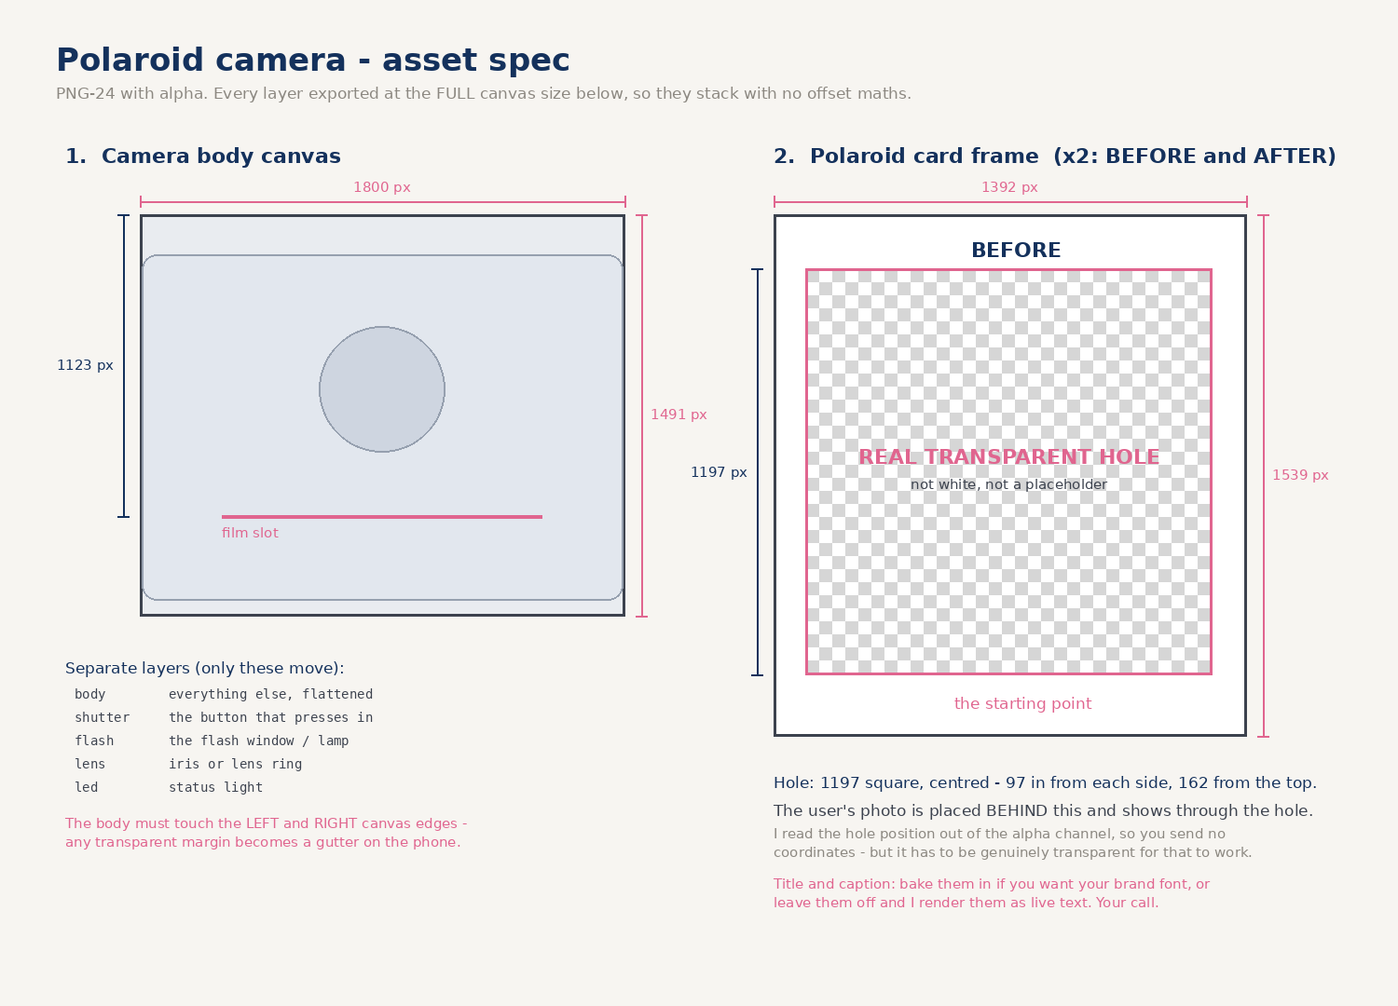
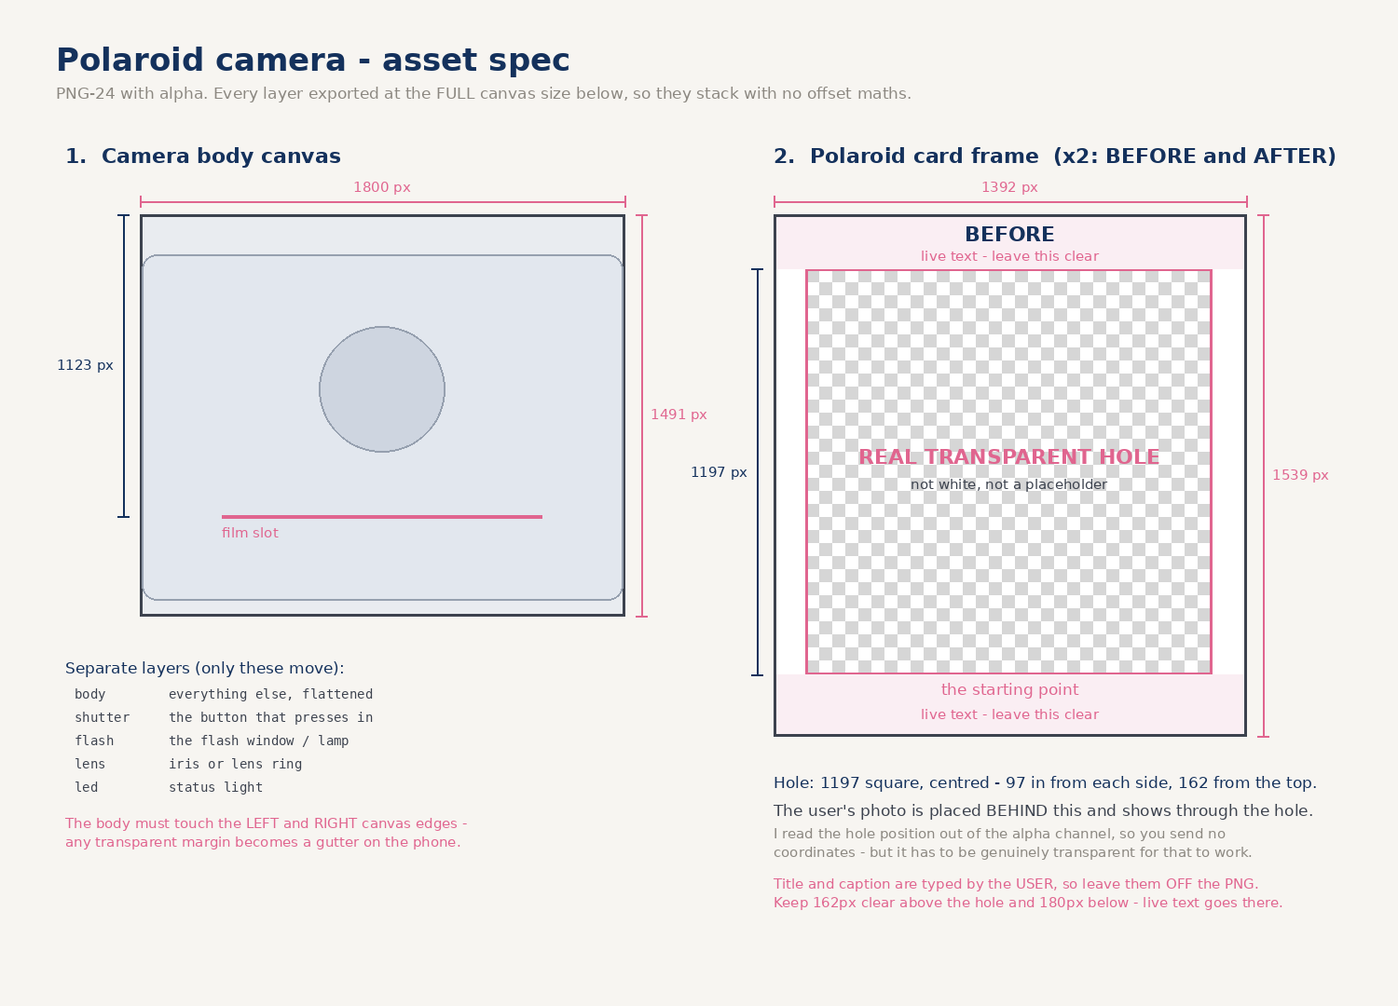
Live user text on the cards, wrapping invoice line items
Client confirmed the card title/caption are typed by the user and that a long
item name should wrap rather than truncate.

- receipt: long labels wrap onto a second line, price stays baseline-aligned
  to the first line and never wraps; min-width:0 so the flex item can break,
  overflow-wrap:anywhere so one long unbroken word still cannot overflow
- card: title and caption pinned to one line with an ellipsis. Every rest
  position is a percentage OF THE CARD, so a wrapping caption would grow the
  card, move the settled print and invalidate the exported frame proportions
- card: explicit line boxes in cqw instead of line-height:normal. With
  'normal' the height came from whichever font rendered the glyphs, so a
  caption containing a heart picked a fallback and the card grew a unit -
  measured 513 -> 514 purely by changing the words. Swept the values: 3.70cqw
  is the one that holds both the 513 card height and the 54 window top that
  the export spec is built on
- spec sheet + ASSETS.md: title/caption come OFF the frame PNG, with the
  162px and 180px bands called out as reserved for live text

Changed region(s): [[0.552, 0.8556, 0.92, 0.9167], [0.644, 0.2139, 0.7973, 0.275], [0.6747, 0.6722, 0.7667, 0.7333]]

diff --git a/react-live/assets/ReceiptPrinter-DfFWbAod.js b/react-live/assets/ReceiptPrinter-DfFWbAod.js
@@ -1,0 +1,1 @@
+import{r as l,g as w,j as e}from"./index-Dh-XI5wf.js";const O=100,P=0,C=3.6,k=36,q=-1.6,$={heading:"INVOICE",meta:["No. 0000","Date --/--/----"],lines:[{label:"Item one",value:"00.00"},{label:"Item two",value:"00.00"},{label:"Item three with a much longer name",value:"00.00"},{label:"Item four",value:"00.00"}],subtotal:{label:"Subtotal",value:"00.00"},total:{label:"TOTAL",value:"00.00"},footer:"thank you ♡"};function S(){let b=null;const i=()=>{if(typeof window>"u")return null;if(!b){const s=window.AudioContext||window.webkitAudioContext;if(!s)return null;b=new s}return b.state==="suspended"&&b.resume(),b},E=(s,d)=>{const r=Math.floor(s.sampleRate*d),n=s.createBuffer(1,r,s.sampleRate),o=n.getChannelData(0);for(let c=0;c<r;c++)o[c]=Math.random()*2-1;return n};return{unlock:i,feed(s,d){const r=i();if(!r)return;const n=r.currentTime,o=d/s,c=r.createOscillator();c.type="square",c.frequency.setValueAtTime(196,n),c.frequency.linearRampToValueAtTime(208,n+s);const m=r.createBiquadFilter();m.type="bandpass",m.frequency.value=1500,m.Q.value=.7;const h=r.createGain();h.gain.value=0;const p=r.createOscillator();p.type="square",p.frequency.value=o;const v=r.createGain();v.gain.value=.028,p.connect(v),v.connect(h.gain);const f=r.createGain();f.gain.setValueAtTime(1e-4,n),f.gain.linearRampToValueAtTime(1,n+.08),f.gain.setValueAtTime(1,n+s-.12),f.gain.linearRampToValueAtTime(1e-4,n+s),c.connect(m),m.connect(h),h.connect(f),f.connect(r.destination),c.start(n),c.stop(n+s+.02),p.start(n),p.stop(n+s+.02);const y=r.createBufferSource();y.buffer=E(r,s);const j=r.createBiquadFilter();j.type="highpass",j.frequency.value=4200;const u=r.createGain();u.gain.setValueAtTime(1e-4,n),u.gain.linearRampToValueAtTime(.035,n+.15),u.gain.setValueAtTime(.035,n+s-.15),u.gain.linearRampToValueAtTime(1e-4,n+s),y.connect(j),j.connect(u),u.connect(r.destination),y.start(n),y.stop(n+s)},beep(){const s=i();if(!s)return;const d=s.currentTime;[0,.14].forEach((r,n)=>{const o=s.createOscillator(),c=s.createGain();o.type="square",o.frequency.value=n?1180:880,c.gain.setValueAtTime(1e-4,d+r),c.gain.linearRampToValueAtTime(.07,d+r+.012),c.gain.exponentialRampToValueAtTime(1e-4,d+r+.1),o.connect(c),c.connect(s.destination),o.start(d+r),o.stop(d+r+.11)})}}}const M=l.forwardRef(function({receipt:i=$,paperSrc:E=null,printerSrc:s=null,sound:d=!0,autoPlay:r=!1,playOnView:n=!0,onComplete:o,className:c=""},m){var I,_;const h=l.useRef(null),p=l.useRef(null),v=l.useRef(null),f=l.useRef(null),y=l.useRef(null),j=l.useRef(null),u=l.useRef(null),T=l.useRef(null),N=l.useRef(d);l.useEffect(()=>{N.current=d},[d]);const G=l.useId().replace(/:/g,""),R=t=>`${t}-${G}`,A=t=>`url(#${R(t)})`,D=l.useCallback(()=>{var t;N.current&&((t=T.current)==null||t.feed(C,k))},[]),V=l.useCallback(()=>{var t;N.current&&((t=T.current)==null||t.beep())},[]);l.useLayoutEffect(()=>{T.current=S();const t=w.context(()=>{const a=p.current,x=v.current,B=()=>{w.set(a,{x:0,y:0,rotation:0}),w.set(x,{yPercent:O,rotation:0}),w.set(f.current,{y:0,scale:1,transformOrigin:"111px 214px"}),w.set(y.current,{opacity:.35}),w.set(j.current,{opacity:.12})};B();const F=w.timeline({paused:!0,defaults:{ease:"power2.out"},onComplete:()=>o==null?void 0:o()});F.to(f.current,{scale:.9,y:3,duration:.07,ease:"power3.in"},0).to(f.current,{scale:1,y:0,duration:.2,ease:"back.out(2.4)"},.07).to(y.current,{opacity:1,duration:.12},.05).to(j.current,{opacity:.5,duration:.12},.05),F.add("feed",.34).call(D,null,"feed").to(x,{yPercent:P,duration:C,ease:`steps(${k})`},"feed").to(x,{rotation:q,duration:C,ease:"power2.in"},"feed").to(a,{x:.9,y:-.6,duration:.055,repeat:Math.round(C/.055),yoyo:!0,ease:"none"},"feed"),F.add("done",`feed+=${C}`).set(a,{x:0,y:0},"done").call(V,null,"done").to(x,{rotation:q*.55,duration:.55,ease:"power2.out"},"done").to(y.current,{opacity:.35,duration:.4},"done+=0.3").to(j.current,{opacity:.12,duration:.4},"done+=0.3"),u.current=F,u.current.__reset=B},h);return()=>{t.revert(),u.current=null}},[o,D,V]);const g=l.useCallback(()=>{var a,x;const t=u.current;if(t){if((a=T.current)==null||a.unlock(),(x=t.__reset)==null||x.call(t),window.matchMedia("(prefers-reduced-motion: reduce)").matches){t.progress(1);return}t.restart()}},[]);return l.useImperativeHandle(m,()=>({play:g,reset:()=>{var t,a,x;(t=u.current)==null||t.pause(0),(x=(a=u.current)==null?void 0:a.__reset)==null||x.call(a)},get timeline(){return u.current}}),[g]),l.useEffect(()=>{r&&g()},[r,g]),l.useEffect(()=>{if(!n||r||!h.current)return;const t=h.current,a=new IntersectionObserver(x=>{x.forEach(B=>{B.isIntersecting&&(g(),a.disconnect())})},{threshold:.35});return a.observe(t),()=>a.disconnect()},[n,r,g]),e.jsxs("div",{className:`rp-stage ${c}`,ref:h,onClick:g,children:[e.jsx("div",{className:"rp-paper-stage",children:e.jsx("div",{className:"rp-paper",ref:v,children:E?e.jsx("img",{src:E,alt:"",draggable:"false"}):e.jsxs("div",{className:"rp-receipt",children:[e.jsx("div",{className:"rp-head",children:i.heading}),(I=i.meta)==null?void 0:I.map((t,a)=>e.jsx("div",{className:"rp-meta",children:t},a)),e.jsx("div",{className:"rp-rule"}),(_=i.lines)==null?void 0:_.map((t,a)=>e.jsxs("div",{className:"rp-row",children:[e.jsx("span",{children:t.label}),e.jsx("span",{children:t.value})]},a)),e.jsx("div",{className:"rp-rule"}),i.subtotal?e.jsxs("div",{className:"rp-row",children:[e.jsx("span",{children:i.subtotal.label}),e.jsx("span",{children:i.subtotal.value})]}):null,i.total?e.jsxs("div",{className:"rp-row rp-total",children:[e.jsx("span",{children:i.total.label}),e.jsx("span",{children:i.total.value})]}):null,e.jsx("div",{className:"rp-barcode","aria-hidden":"true",children:Array.from({length:34},(t,a)=>e.jsx("i",{style:{width:`${a*7%3+1}px`}},a))}),e.jsx("div",{className:"rp-foot",children:i.footer})]})})}),s?e.jsx("img",{className:"rp-body",src:s,alt:"",ref:p,draggable:"false"}):e.jsxs("svg",{className:"rp-body",ref:p,viewBox:"0 0 600 381",xmlns:"http://www.w3.org/2000/svg","aria-hidden":"true",children:[e.jsxs("defs",{children:[e.jsxs("linearGradient",{id:R("shell"),x1:"0",y1:"0",x2:"0",y2:"1",children:[e.jsx("stop",{offset:"0",stopColor:"#F6EFE4"}),e.jsx("stop",{offset:"1",stopColor:"#E4D8C7"})]}),e.jsxs("linearGradient",{id:R("deck"),x1:"0",y1:"0",x2:"0",y2:"1",children:[e.jsx("stop",{offset:"0",stopColor:"#EFE6D8"}),e.jsx("stop",{offset:"1",stopColor:"#DDD0BD"})]}),e.jsxs("linearGradient",{id:R("base"),x1:"0",y1:"0",x2:"0",y2:"1",children:[e.jsx("stop",{offset:"0",stopColor:"#8FB6DA"}),e.jsx("stop",{offset:"1",stopColor:"#6E97C2"})]}),e.jsxs("linearGradient",{id:R("slot"),x1:"0",y1:"0",x2:"0",y2:"1",children:[e.jsx("stop",{offset:"0",stopColor:"#33465d"}),e.jsx("stop",{offset:"1",stopColor:"#151f2c"})]}),e.jsx("filter",{id:R("soft"),x:"-30%",y:"-30%",width:"160%",height:"160%",children:e.jsx("feGaussianBlur",{stdDeviation:"6"})})]}),e.jsxs("g",{transform:"translate(-46.154, 0) scale(1.153846)",children:[e.jsx("ellipse",{cx:"300",cy:"316",rx:"222",ry:"12",fill:"#000",opacity:"0.13",filter:A("soft")}),e.jsx("rect",{x:"76",y:"238",width:"448",height:"72",rx:"26",fill:A("base")}),e.jsx("rect",{x:"76",y:"238",width:"448",height:"12",rx:"6",fill:"#A8C8E4",opacity:"0.5"}),e.jsx("rect",{x:"52",y:"96",width:"496",height:"166",rx:"28",fill:A("shell")}),e.jsx("rect",{x:"40",y:"52",width:"520",height:"60",rx:"24",fill:A("deck")}),e.jsx("rect",{x:"58",y:"60",width:"484",height:"12",rx:"6",fill:"#FFFBF4",opacity:"0.6"}),e.jsx("rect",{x:"150",y:"56",width:"300",height:"20",rx:"7",fill:A("slot")}),e.jsx("rect",{x:"150",y:"70",width:"300",height:"6",rx:"3",fill:"#0c1219",opacity:"0.55"}),e.jsx("rect",{x:"146",y:"76",width:"308",height:"9",rx:"4.5",fill:"#CBBCA6"}),e.jsx("rect",{x:"122",y:"56",width:"26",height:"22",rx:"7",fill:"#C3B39C"}),e.jsx("rect",{x:"452",y:"56",width:"26",height:"22",rx:"7",fill:"#C3B39C"}),e.jsxs("g",{ref:f,children:[e.jsx("circle",{cx:"111",cy:"218",r:"27",fill:"#C9B9A6"}),e.jsx("circle",{cx:"111",cy:"214",r:"25",fill:"#E9A9B2"}),e.jsx("circle",{cx:"111",cy:"209",r:"21",fill:"#F0B8C0"})]}),e.jsxs("g",{children:[e.jsx("rect",{x:"452",y:"196",width:"62",height:"24",rx:"12",fill:"#C8B49A"}),e.jsx("rect",{x:"455",y:"199",width:"56",height:"18",rx:"9",fill:"#2b2118"}),e.jsx("circle",{ref:j,cx:"483",cy:"208",r:"17",fill:"#5FBF7A",opacity:"0.12",filter:A("soft")}),e.jsx("circle",{ref:y,cx:"483",cy:"208",r:"7",fill:"#5FBF7A",opacity:"0.35"})]}),e.jsxs("g",{fill:"#D8C9B4",children:[e.jsx("rect",{x:"168",y:"150",width:"170",height:"8",rx:"4"}),e.jsx("rect",{x:"168",y:"172",width:"170",height:"8",rx:"4"}),e.jsx("rect",{x:"168",y:"194",width:"124",height:"8",rx:"4"})]})]})]})]})});export{M as R};

diff --git a/react-live/assets/PolaroidCamera-Hv4JjG4W.css b/react-live/assets/PolaroidCamera-Hv4JjG4W.css
@@ -1,0 +1,1 @@
+.pc-stage{--pc-slot-y: 25.82%;--pc-ink: #14315C;--pc-pink: #E0658F;position:relative;width:100%;aspect-ratio:600 / 1450;margin:0 auto;isolation:isolate;container-type:inline-size;overflow:hidden;touch-action:manipulation;cursor:pointer}.pc-stage *{box-sizing:border-box}.pc-camera{position:absolute;top:0;left:0;width:100%;height:auto;transform-origin:50% 78%;will-change:transform;z-index:1}.pc-photo-stage{position:absolute;left:0;right:0;top:var(--pc-slot-y);bottom:0;overflow:hidden;z-index:2;pointer-events:none}.pc-slot-lip{position:absolute;left:17.3%;right:17.3%;top:0;height:7px;background:linear-gradient(to bottom,#080e16b3,#080e1600);z-index:9}.pc-photo{position:absolute;width:77.3%;left:10.6%;top:0;will-change:transform;backface-visibility:hidden}.pc-photo-b{z-index:4}.pc-photo-a{z-index:3}.pc-photo-inner{background:#fbf8f2;border-radius:3px;padding:4% 7%;box-shadow:0 1px 2px #14192329,0 10px 22px #14192333,0 22px 40px #1419231f}.pc-photo-title,.pc-photo-caption{white-space:nowrap;overflow:hidden;text-overflow:ellipsis}.pc-photo-title{text-align:center;font-weight:800;letter-spacing:.11em;color:var(--pc-ink);font-size:3.4cqw;line-height:3.7cqw;margin-bottom:3%}.pc-photo-title:before,.pc-photo-title:after{content:"//";color:var(--pc-pink);margin:0 .5em;font-size:.8em;position:relative;top:-.33cqw}.pc-photo-img{position:relative;width:100%;aspect-ratio:1;border-radius:2px;overflow:hidden;background:#cfc3b4}.pc-photo-img img{display:block;width:100%;height:100%;object-fit:cover}.pc-img-before{background:linear-gradient(150deg,#dccfc0,#c9b7a4 45%,#d6c7b6)}.pc-img-after{background:linear-gradient(150deg,#d8c6ae,#8a5a32 40%,#4a2a18 75%,#c79a62)}.pc-img-before:after,.pc-img-after:after{content:"";position:absolute;left:50%;bottom:-14%;width:52%;aspect-ratio:1/1.25;transform:translate(-50%);border-radius:46% 46% 38% 38%/40% 40% 60% 60%;background:radial-gradient(120% 90% at 35% 20%,#ffffff4d,#00000029);mix-blend-mode:soft-light}.pc-dev-veil{position:absolute;top:0;right:0;bottom:0;left:0;background:#efe9df;z-index:2}.pc-photo-caption{text-align:center;color:var(--pc-pink);font-family:Snell Roundhand,Segoe Script,Brush Script MT,cursive;font-style:italic;font-size:4cqw;line-height:4.67cqw;margin-top:3.5%}.pc-flash-overlay{position:absolute;top:-40%;right:-40%;bottom:-40%;left:-40%;background:radial-gradient(circle at 21% 21%,#fffffffa,#ffffff8c 40%,#fff0 72%);opacity:0;pointer-events:none;z-index:6}

diff --git a/react-live/assets/ReceiptPrinter-BhrNLBUx.css b/react-live/assets/ReceiptPrinter-BhrNLBUx.css
@@ -1,0 +1,1 @@
+.rp-stage{--rp-body-top: 50.54%;--rp-slot-y: 59.46%;--rp-ink: #14315C;--rp-pink: #E0658F;--rp-paper: #FCFAF5;position:relative;width:100%;aspect-ratio:600 / 930;margin:0 auto;isolation:isolate;container-type:inline-size;overflow:hidden;touch-action:manipulation;cursor:pointer}.rp-stage *{box-sizing:border-box}.rp-body{position:absolute;top:var(--rp-body-top);left:0;width:100%;height:auto;will-change:transform;z-index:3}.rp-paper-stage{position:absolute;left:0;right:0;top:0;height:var(--rp-slot-y);overflow:hidden;z-index:2;pointer-events:none}.rp-paper{position:absolute;bottom:0;left:21.5%;width:56.9%;aspect-ratio:296 / 460;background:var(--rp-paper);transform-origin:50% 100%;will-change:transform;backface-visibility:hidden;filter:drop-shadow(0 -2px 3px rgba(20,25,35,.13)) drop-shadow(0 -10px 20px rgba(20,25,35,.14))}.rp-paper img{display:block;width:100%;height:100%;object-fit:cover}.rp-paper:before{content:"";position:absolute;top:0;right:0;bottom:0;left:0;background:linear-gradient(100deg,#0000000d,#0000 18%,#0000 82%,#0000000d);pointer-events:none;z-index:3}.rp-receipt{position:absolute;top:0;right:0;bottom:0;left:0;padding:8% 9%;display:flex;flex-direction:column;font-family:SFMono-Regular,ui-monospace,Menlo,Consolas,Courier New,monospace;color:#3d3a35;font-size:2.05cqw;line-height:1.8;letter-spacing:.02em}.rp-head{text-align:center;font-weight:800;letter-spacing:.22em;text-indent:.22em;font-size:3.1cqw;color:var(--rp-ink);margin-bottom:2%}.rp-meta{text-align:center;color:#8d877e;font-size:1.85cqw;line-height:1.6}.rp-rule{border-top:1px dashed #c9c2b6;margin:4.5% 0 3.5%}.rp-row{display:flex;justify-content:space-between;align-items:baseline;gap:6%;line-height:1.45;margin-bottom:1.4%}.rp-row span:first-child{min-width:0;overflow-wrap:anywhere}.rp-row span:last-child{flex:none;white-space:nowrap;font-variant-numeric:tabular-nums}.rp-total{font-weight:800;color:var(--rp-ink);font-size:2.5cqw;margin-top:2%}.rp-barcode{display:flex;align-items:flex-end;gap:2px;height:9%;margin:auto 0 4%}.rp-barcode i{display:block;height:100%;background:#3d3a35}.rp-foot{text-align:center;color:var(--rp-pink);font-family:Snell Roundhand,Segoe Script,Brush Script MT,cursive;font-style:italic;font-size:3cqw}

diff --git a/react-live/assets/main-B6gEG2wQ.js b/react-live/assets/main-B6gEG2wQ.js
@@ -1,0 +1,1 @@
+import{r,j as e,c as i,R as l}from"./index-Dh-XI5wf.js";import{P as o}from"./PolaroidCamera-DPSqkrea.js";import{R as d}from"./ReceiptPrinter-DfFWbAod.js";function h(){const c=r.useRef(null),t=r.useRef(null),[n,a]=r.useState(!0);return r.useEffect(()=>{window.__cam=c.current,window.__printer=t.current},[]),e.jsxs("main",{className:"page",children:[e.jsxs("section",{className:"hero",children:[e.jsxs("div",{className:"copy",children:[e.jsx("p",{className:"eyebrow",children:"React + GSAP"}),e.jsx("h1",{children:"Polaroid capture"}),e.jsx("p",{className:"lede",children:"One component, one import. Flash, shutter sound, recoil and both prints run off a single GSAP timeline."})]}),e.jsx("div",{className:"camera-slot",children:e.jsx(o,{ref:c,sound:n,playOnView:!0})}),e.jsxs("div",{className:"controls",children:[e.jsx("button",{className:"btn",onClick:()=>{var s;return(s=c.current)==null?void 0:s.play()},children:"Take the photo"}),e.jsxs("label",{className:"snd",children:[e.jsx("input",{type:"checkbox",checked:n,onChange:s=>a(s.target.checked)}),"sound"]})]})]}),e.jsxs("section",{className:"hero",children:[e.jsxs("div",{className:"copy",children:[e.jsx("p",{className:"eyebrow",children:"React + GSAP"}),e.jsx("h1",{children:"Invoice printer"}),e.jsx("p",{className:"lede",children:"Ejects upward, in discrete line steps rather than a smooth glide. The paper travels; the heading leads because it is the top of the job."})]}),e.jsx("div",{className:"camera-slot",children:e.jsx(d,{ref:t,sound:n,playOnView:!0})}),e.jsx("div",{className:"controls",children:e.jsx("button",{className:"btn",onClick:()=>{var s;return(s=t.current)==null?void 0:s.play()},children:"Print the invoice"})})]})]})}i(document.getElementById("root")).render(e.jsx(l.StrictMode,{children:e.jsx(h,{})}));

diff --git a/react-live/index.html b/react-live/index.html
@@ -4,12 +4,12 @@
     <meta charset="UTF-8" />
     <meta name="viewport" content="width=device-width, initial-scale=1, viewport-fit=cover" />
     <title>Polaroid Camera — React + GSAP</title>
-    <script type="module" crossorigin src="./assets/main-g8r7mvbE.js"></script>
+    <script type="module" crossorigin src="./assets/main-B6gEG2wQ.js"></script>
     <link rel="modulepreload" crossorigin href="./assets/index-Dh-XI5wf.js">
-    <link rel="modulepreload" crossorigin href="./assets/PolaroidCamera-xQFwZA3E.js">
-    <link rel="modulepreload" crossorigin href="./assets/ReceiptPrinter-CYSBdQ3a.js">
-    <link rel="stylesheet" crossorigin href="./assets/PolaroidCamera-Dsbu-LMQ.css">
-    <link rel="stylesheet" crossorigin href="./assets/ReceiptPrinter-CIUK7tMY.css">
+    <link rel="modulepreload" crossorigin href="./assets/PolaroidCamera-DPSqkrea.js">
+    <link rel="modulepreload" crossorigin href="./assets/ReceiptPrinter-DfFWbAod.js">
+    <link rel="stylesheet" crossorigin href="./assets/PolaroidCamera-Hv4JjG4W.css">
+    <link rel="stylesheet" crossorigin href="./assets/ReceiptPrinter-BhrNLBUx.css">
     <link rel="stylesheet" crossorigin href="./assets/main-BMUArjTb.css">
   </head>
   <body>

diff --git a/react-live/printer.html b/react-live/printer.html
@@ -4,10 +4,10 @@
     <meta charset="UTF-8" />
     <meta name="viewport" content="width=device-width, initial-scale=1, viewport-fit=cover" />
     <title>printer — full page</title>
-    <script type="module" crossorigin src="./assets/printer-UgOzVct7.js"></script>
+    <script type="module" crossorigin src="./assets/printer-B_nD6hh-.js"></script>
     <link rel="modulepreload" crossorigin href="./assets/index-Dh-XI5wf.js">
-    <link rel="modulepreload" crossorigin href="./assets/ReceiptPrinter-CYSBdQ3a.js">
-    <link rel="stylesheet" crossorigin href="./assets/ReceiptPrinter-CIUK7tMY.css">
+    <link rel="modulepreload" crossorigin href="./assets/ReceiptPrinter-DfFWbAod.js">
+    <link rel="stylesheet" crossorigin href="./assets/ReceiptPrinter-BhrNLBUx.css">
     <link rel="stylesheet" crossorigin href="./assets/fullpage-LI5TsJbq.css">
   </head>
   <body>

diff --git a/react-live/camera.html b/react-live/camera.html
@@ -4,10 +4,10 @@
     <meta charset="UTF-8" />
     <meta name="viewport" content="width=device-width, initial-scale=1, viewport-fit=cover" />
     <title>camera — full page</title>
-    <script type="module" crossorigin src="./assets/camera-DL4GEIU5.js"></script>
+    <script type="module" crossorigin src="./assets/camera-B-zKEUiB.js"></script>
     <link rel="modulepreload" crossorigin href="./assets/index-Dh-XI5wf.js">
-    <link rel="modulepreload" crossorigin href="./assets/PolaroidCamera-xQFwZA3E.js">
-    <link rel="stylesheet" crossorigin href="./assets/PolaroidCamera-Dsbu-LMQ.css">
+    <link rel="modulepreload" crossorigin href="./assets/PolaroidCamera-DPSqkrea.js">
+    <link rel="stylesheet" crossorigin href="./assets/PolaroidCamera-Hv4JjG4W.css">
     <link rel="stylesheet" crossorigin href="./assets/fullpage-LI5TsJbq.css">
   </head>
   <body>

diff --git a/react-live/assets/printer-B_nD6hh-.js b/react-live/assets/printer-B_nD6hh-.js
@@ -1,0 +1,1 @@
+import{c as n,j as e,R as r}from"./index-Dh-XI5wf.js";import{R as s}from"./ReceiptPrinter-DfFWbAod.js";/* empty css                 */function i(){const t=r.useRef(null);return r.useEffect(()=>{window.__printer=t.current},[]),e.jsxs("div",{className:"fp fp-print",children:[e.jsx("div",{className:"fp-inner",children:e.jsx(s,{ref:t,playOnView:!0,sound:!0})}),e.jsx("p",{className:"fp-hint",children:"tap to replay"})]})}n(document.getElementById("root")).render(e.jsx(r.StrictMode,{children:e.jsx(i,{})}));

diff --git a/react-live/assets/camera-B-zKEUiB.js b/react-live/assets/camera-B-zKEUiB.js
@@ -1,0 +1,1 @@
+import{c as s,j as e,R as r}from"./index-Dh-XI5wf.js";import{P as a}from"./PolaroidCamera-DPSqkrea.js";/* empty css                 */function n(){const t=r.useRef(null);return r.useEffect(()=>{window.__cam=t.current},[]),e.jsxs("div",{className:"fp fp-cam",children:[e.jsx("div",{className:"fp-inner",children:e.jsx(a,{ref:t,playOnView:!0,sound:!0})}),e.jsx("p",{className:"fp-hint",children:"tap to replay"})]})}s(document.getElementById("root")).render(e.jsx(r.StrictMode,{children:e.jsx(n,{})}));

diff --git a/ASSETS.md b/ASSETS.md
@@ -64,11 +64,21 @@ the photo will be hidden behind it.
 Square because the uploads are Instagram-style nail photos. A wide window
 centre-crops the fingertips off, which on a nails brand removes the subject.
 
-**Title and caption** ("BEFORE" / "the starting point"): bake them into the PNG
-if you want your exact brand font, or leave them off and I render them as live
-text. Live text is sharper and editable; baked is a guaranteed font match. Your
-call — I just need to know which, because a baked title in the PNG plus a
-rendered one on top would double up.
+**Title and caption are typed by the user, so leave them off the PNG entirely.**
+They are rendered as live text on top of the frame. That means the frame needs
+blank space for them: **162px clear above the hole and 180px clear below.** Put
+artwork in either band and the user's own words land on top of it.
+
+Both are pinned to a single line, and overlong input ends in an ellipsis rather
+than wrapping. That is deliberate: every resting position in the animation is a
+percentage *of the card*, so if a long caption could wrap to two lines the card
+would grow, the settled print would move, and this frame's proportions would no
+longer match. At the card's real size roughly **28 characters of title** and
+**44 of caption** fit before it truncates. If your form lets people type more
+than that, cap the field at those lengths and nobody ever sees an ellipsis.
+
+Send the font (or its name) if you want the live text in your brand face —
+otherwise it renders in the closest web-safe match.
 
 ---
 
@@ -92,10 +102,16 @@ Leave it out and I draw the stock.
 
 **No invoice artwork is needed.** The receipt content comes from your form
 fields and is rendered as live text, so it stays sharp at any size and changes
-with the form. I do need the actual field list to match the layout — mine is
-currently a guess (heading, number, date, line items, subtotal, total, footer) —
-and a decision on whether a long item name should truncate with an ellipsis
-(what it does now) or wrap onto a second line.
+with the form.
+
+Long item names **wrap onto a second line** (your call, 7 Sep) instead of
+truncating. The price stays on the first line, right-aligned, which is how a
+printed invoice reads. A single unbroken 40-character word still cannot push
+past the edge of the paper.
+
+The field list is still a guess on my side — heading, number, date, line items,
+subtotal, total, footer. Send the real one whenever it is ready and I match the
+layout to it.
 
 ---
 
@@ -103,10 +119,11 @@ and a decision on whether a long item name should truncate with an ellipsis
 
 One shutter click for the camera. WAV or MP3, either is fine.
 
-**Trim it hard to the first transient.** If there is 40ms of silence before the
-click, the click lands 40ms after the flash and reads as out of sync. That is
-not fixable at my end without guessing the offset, and guessing it is worse than
-you trimming it.
+You have said exact sync is not critical, so this is no longer a blocker — but
+if the file is easy to trim, **trim it to the first transient**. Leading silence
+delays the click by however long it is, and I cannot remove that at my end
+without guessing. The click and the flash fire off the same point in the
+timeline, so with a trimmed file they stay together however often it replays.
 
 A motor whir for the print ejecting and one for the paper feed are nice to have.
 Without any audio files at all the demo still works — the sounds are currently
@@ -117,9 +134,13 @@ assets. Real recordings are better; they are just not blocking.
 
 ## What I still do not have
 
-- The **WebM files** mentioned in the original brief — I have asked twice what is
-  in them. If they are a flash or a print-develop texture they drop straight into
-  the timeline; if they are reference recordings of the animation you want, they
-  are useful in a completely different way. Either is fine, I just need to know.
-- The **form field list** for the invoice.
-- Whether the card **title/caption is baked or live**.
+- The **camera body** and **card frame** exports, and the **printer body**
+  export, per the specs above. These are what actually block finishing.
+- The **form field list** for the invoice — not blocking, the layout works on
+  placeholders until it arrives.
+- The **shutter recording** — not blocking either, the sound is synthesised in
+  the browser meanwhile.
+
+Settled and no longer open: title and caption are live text (leave them off the
+frame), long item names wrap, the shutter does not have to be frame-accurate,
+and the WebM files are set aside.
